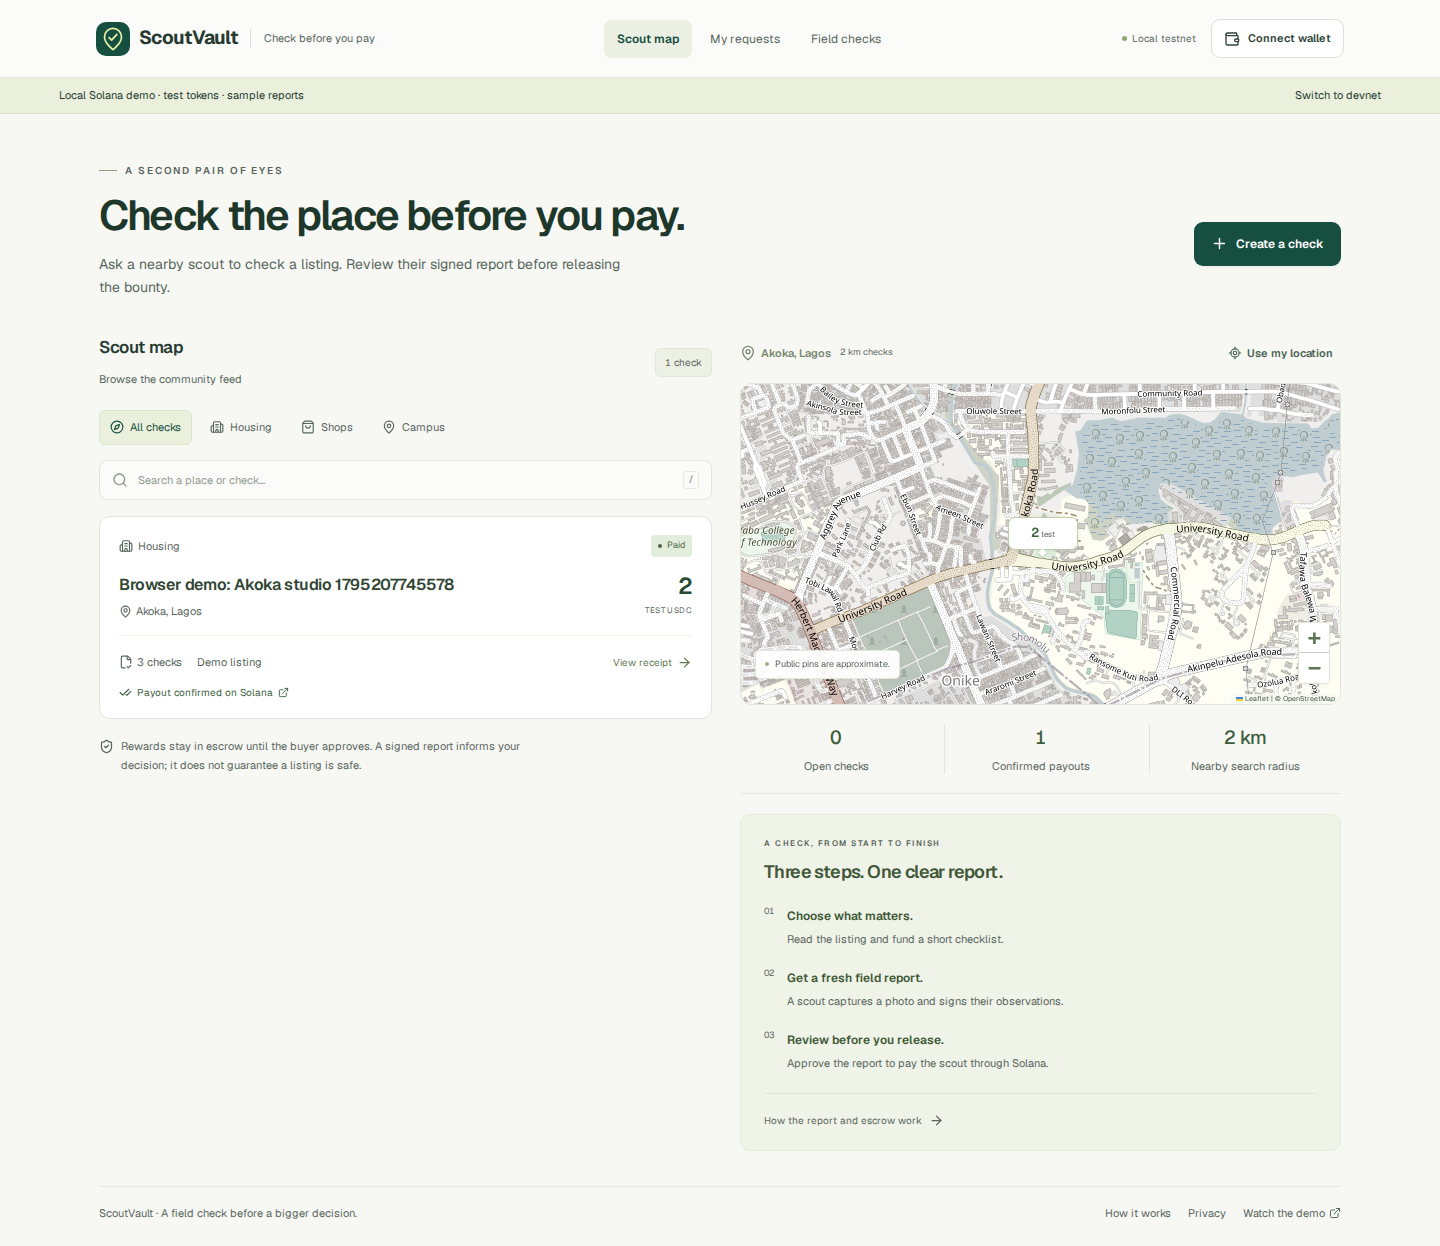
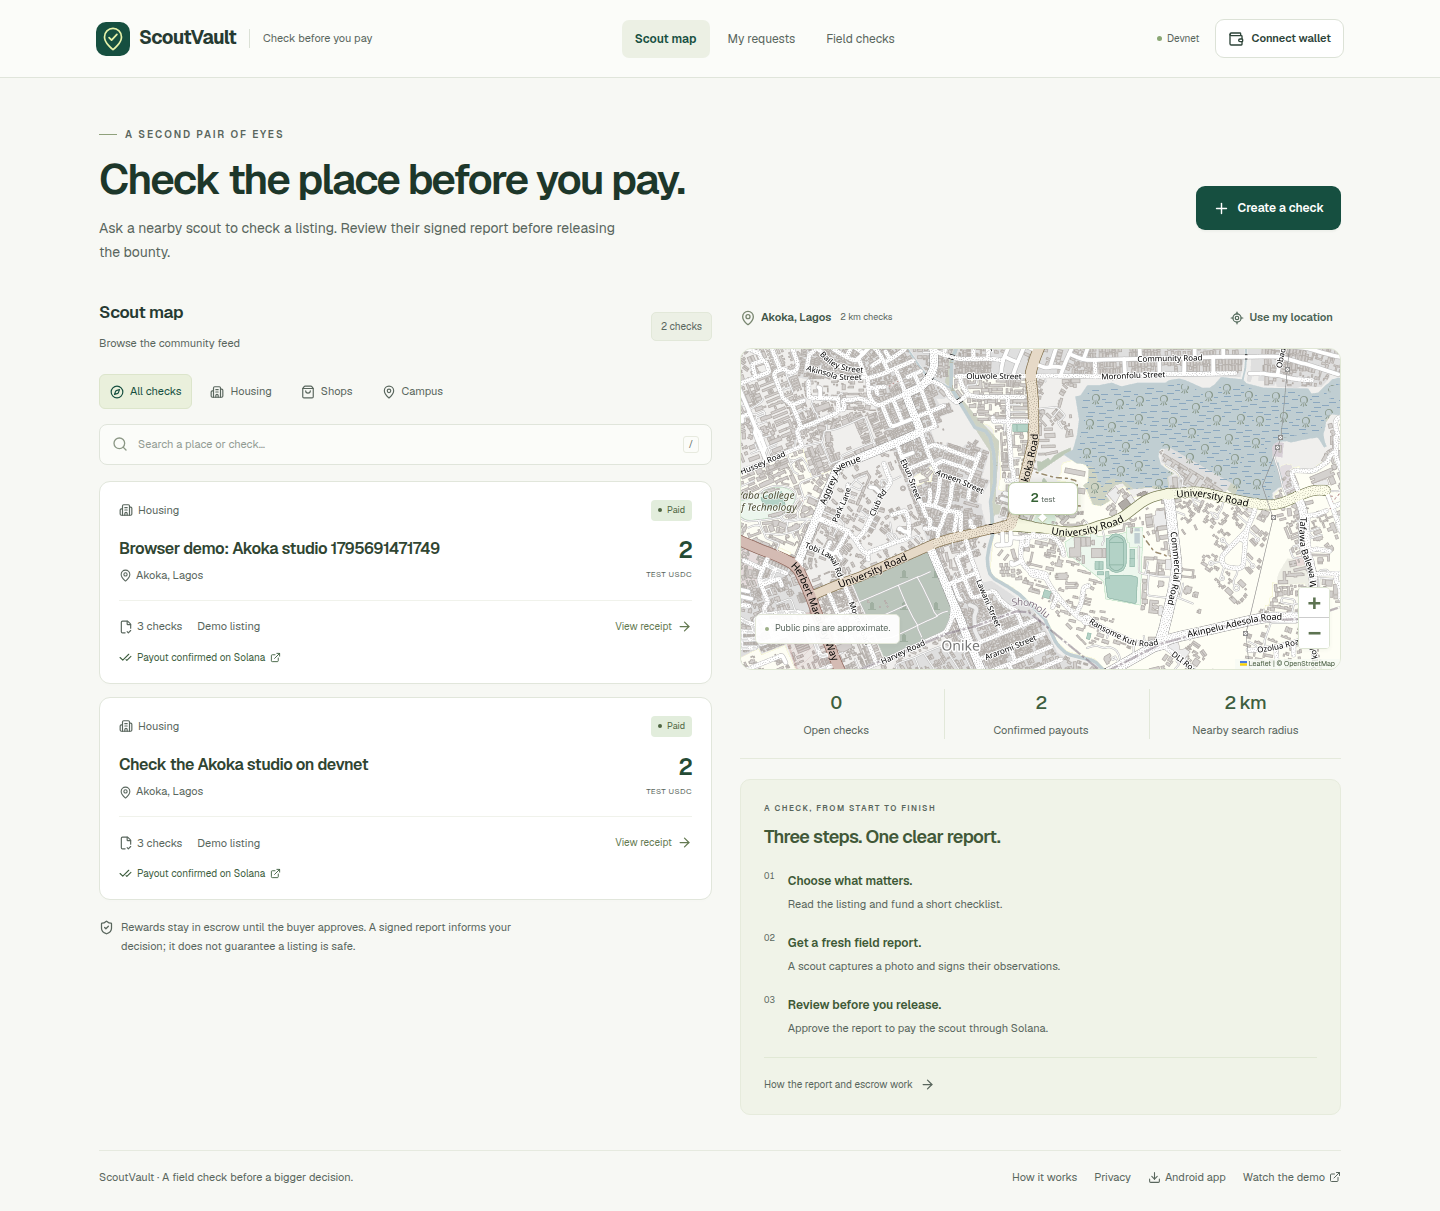
Verify hosted ScoutVault payout and improve mobile contrast

diff --git a/src/styles.css b/src/styles.css
@@ -24,6 +24,7 @@
 :root{--muted:#59665d}
 .brand-caption,.nav-link,.network-tag,.eyebrow,.count-pill,.filter,.feed-empty p,.how-card li>span,.how-card li p,.how-link,.search-field kbd,.card-reward span,.map-price>span,.map-caption,.map-stats span,.muted,.hero-row p,.panel-heading>div>span,.category-label,.bounty-card-main p,.bounty-card-bottom,.feed-note,.map-heading>div>span,.workspace-footer,.field-hint,.edit-check p,.source-receipt a,.source-receipt>span:last-child,.funding-summary>div,.funding-summary p,.review-note p,.detail-reward small,.detail-address p,.detail-checks p,.escrow-links,.report-review figcaption,.report-review>.small,.report-results>div,.report-review blockquote,.wallet-choice p,.wallet-summary span,.wallet-balances span,.camera-empty p,.capture-instruction p,.location-receipt,.waiting-note,.step-tabs,.report-check p,.guide-copy p,.payout-receipt p{color:#59665d}
 .nav-active,.filter-active,.step-tabs .step-active{color:#164f40}
+.mobile-nav button:not(.mobile-nav-active){color:var(--muted)}
 .map-heading strong{color:#405547}
 .source-receipt strong,.receipt-label,.check-number,.report-check legend,.detail-checks strong,.capture-instruction strong,.camera-empty strong,.wallet-choice strong,.wallet-summary strong,.wallet-balances strong,.payout-receipt,.payout-receipt a,.map-stats strong,.card-receipt,.text-link{color:#3d5e3e}
 .answer-options label{color:#4b6138}.answer-options .answer-selected{color:#164f40}

diff --git a/docs/validation.md b/docs/validation.md
@@ -4,6 +4,10 @@ On November 26, 2026, the verified compiled Anchor program was deployed to publi
 
 The current video shows that devnet run with English narration and captions. The labelled illustration and software wallets provide a reproducible demo. [Public walkthrough](https://scoutvault-checks.vercel.app/demo/) · [Video verification](../reports/demo-devnet.json).
 
+The hosted retest passed all three browser cases after a mobile navigation contrast fix. The checks covered desktop and phone layouts, keyboard focus, reduced motion, and a new funded request through buyer approval and page reload. The signed report remained verifiable after refresh. Public Solana RPC confirmed finality for funding, claim, report, and approval. The scout's balance rose from 10 to 12 TEST USDC. The public bounty view omitted the exact entrance address and private report. [Retest results](../reports/devnet-browser-retest.json) · [New payout in Solana Explorer](https://explorer.solana.com/tx/RiBo6N74ojadMqeTAEpUchesqeKLmJKTuSNudPhKWBNb2ZeDExSWpRhskpDYbvQYBfh6VQRsPBvZ7WyfazD9PcY?cluster=devnet)
+
+The production build and all six server tests passed. `npm test` runs the server suite. The narrated walkthrough played with English captions on desktop and phone after the update. The published APK hash and website certificate fingerprint matched the verified release. [Hosting check](../reports/hosted.json) · [Playback check](../reports/media-devnet.json) · [Android verification](../reports/android.json)
+
 The original public release checks ran November 21. The separate local validator and its ledger retired after the local recording was complete. The November 21 reports below describe that earlier setup.
 
 The compiled Anchor program passed [seven local-validator scenarios](../reports/contract.txt): exact funding and payout, buyer self-claim rejection, exclusive scout assignment, report and payment authorization, changed-report rejection, refund and ID-reuse protection, dispute authority, and unsolicited vault donations. Several checks run within the same scenario.

diff --git a/docs/submission.md b/docs/submission.md
@@ -16,6 +16,7 @@
 | Android | [Signed APK release](https://github.com/NSEVEjk0/scoutvault/releases/tag/v0.1.0) |
 | Images | [Desktop](../reports/desktop.png), [phone](../reports/phone.png), [paid report](../reports/payout-devnet.png) |
 | Devnet payout | [Finalized transaction in Solana Explorer](https://explorer.solana.com/tx/3zSVqcCExnJiLqKwrtcEPzsxdhnuWQi3LKJLvwjnDB3PHXycJvsbXvBdo2qfsFBpwX2txAyxFN1RqRBA7iyw7ZXm?cluster=devnet) |
+| Public retest | [Browser results and latest finalized payout](../reports/devnet-browser-retest.json) |
 
 The walkthrough shows the signed sample report, buyer approval, and a finalized two-token payout on public Solana devnet. [Storyboard](demo-storyboard.md) · [Verification](validation.md).
 
